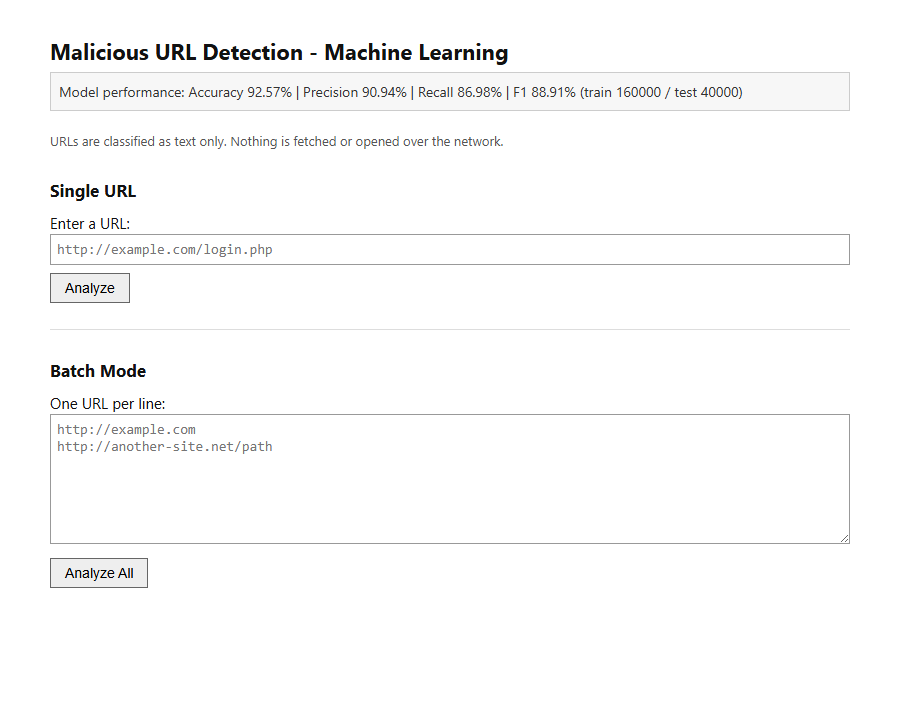
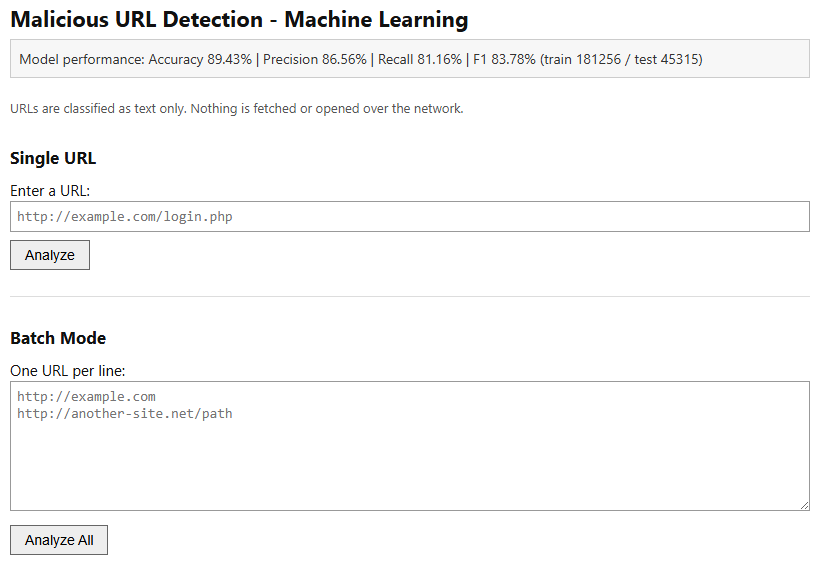
Add requirements.txt and SETUP.txt; fix README setup instructions
A fresh clone could not follow its own README. Three problems:

1. requirements.txt was never committed, yet the README told the reader to run
   "pip install -r requirements.txt". That command failed outright. The file is
   now included, pinned to the versions the project was verified against.

2. The dataset download used "curl -sL -o" and "unzip" under a heading that
   otherwise gave PowerShell commands. Neither works on Windows: curl is an
   alias for Invoke-WebRequest and does not accept those flags, and unzip does
   not exist. Separate, tested Windows and macOS/Linux commands are now given.

3. The setup block used Activate.ps1, which the PowerShell execution policy
   often blocks. It now calls .venv\Scripts\python.exe directly.

Also states plainly that a clone will NOT run until the 44 MB dataset is
fetched, since that is the first thing a new user hits.

Other changes:
- train.py saves the model with compress=3, taking it from ~571 MB to ~113 MB.
- SETUP.txt added: standalone step-by-step instructions for both platforms.
- screenshots/ui_home.png recaptured with the current model (89.43%); the old
  one still showed 92.57% from the superseded build.
- screenshots of the malicious, benign and batch prediction views added.

diff --git a/train.py b/train.py
@@ -192,7 +192,9 @@ def train_and_cache() -> dict:
     }
 
     MODEL_DIR.mkdir(parents=True, exist_ok=True)
-    joblib.dump(bundle, MODEL_PATH)
+    # compress=3 takes the bundle from ~571 MB to ~113 MB for a few seconds of
+    # CPU, which makes the trained model small enough to ship or copy around.
+    joblib.dump(bundle, MODEL_PATH, compress=3)
     print(f"Saved model bundle to {MODEL_PATH}")
 
     return bundle

diff --git a/README.md b/README.md
@@ -21,15 +21,33 @@ of scope for this project.
 - **Source:** https://www.kaggle.com/datasets/sid321axn/malicious-urls-dataset
 - **File:** `data/malicious_phish.csv`
 
-The 44 MB CSV is not committed to git. Fetch it before the first run:
+The 44 MB CSV is not committed to git, so a fresh `git clone` will NOT run until
+you fetch it. Without this step `train.py` and `app.py` both fail with
+`FileNotFoundError: data/malicious_phish.csv`.
+
+**Windows (PowerShell)** - paste as ONE line:
+
+```powershell
+New-Item -ItemType Directory -Force data | Out-Null; Invoke-WebRequest -Uri "https://www.kaggle.com/api/v1/datasets/download/sid321axn/malicious-urls-dataset" -OutFile data\kaggle.zip; Expand-Archive data\kaggle.zip -DestinationPath data -Force; Remove-Item data\kaggle.zip; Get-ChildItem data
+```
+
+Do not use `curl -sL -o ...` in PowerShell: `curl` there is an alias for
+`Invoke-WebRequest`, which does not accept those flags, and `unzip` does not
+exist on Windows.
+
+**macOS / Linux:**
 
 ```bash
+mkdir -p data
 curl -sL -o data/kaggle.zip https://www.kaggle.com/api/v1/datasets/download/sid321axn/malicious-urls-dataset
 unzip -o data/kaggle.zip -d data && rm data/kaggle.zip
 ```
 
-The trained model (`model_cache/`, ~571 MB) is not committed either - run
-`python train.py` to regenerate it.
+You should end up with `data/malicious_phish.csv` (about 45.7 MB, 651,192 lines
+including the header).
+
+The trained model (`model_cache/`) is not committed either - run
+`python train.py` to regenerate it. It is roughly 113 MB once saved.
 - **Rows:** 651,191
 - **Columns:** `url,type`
 
@@ -82,19 +100,29 @@ project can be moved or cloned to any directory.
 
 Requires **Python 3**. Only pandas, numpy, scikit-learn, joblib and flask are used.
 
-From the project root (`C:\User\Anisto\Project\malicious-url-detection`):
+From the project root, run each line separately.
+
+**Windows (PowerShell):**
 
 ```powershell
 python -m venv .venv
-.\.venv\Scripts\Activate.ps1
-pip install -r requirements.txt
+.venv\Scripts\python.exe -m pip install -r requirements.txt
+.venv\Scripts\python.exe app.py
 ```
 
-Run the web app:
+**macOS / Linux:**
 
-```powershell
-python app.py
+```bash
+python3 -m venv .venv
+.venv/bin/python -m pip install -r requirements.txt
+.venv/bin/python app.py
 ```
+
+Calling `.venv\Scripts\python.exe` directly avoids having to activate the
+environment, which on Windows can be blocked by the PowerShell execution policy.
+
+The first run trains the model if `model_cache/model.joblib` is absent, which
+takes 2-4 minutes. Later runs load the cached model and start immediately.
 
 Then open http://127.0.0.1:5000 in a browser.
 